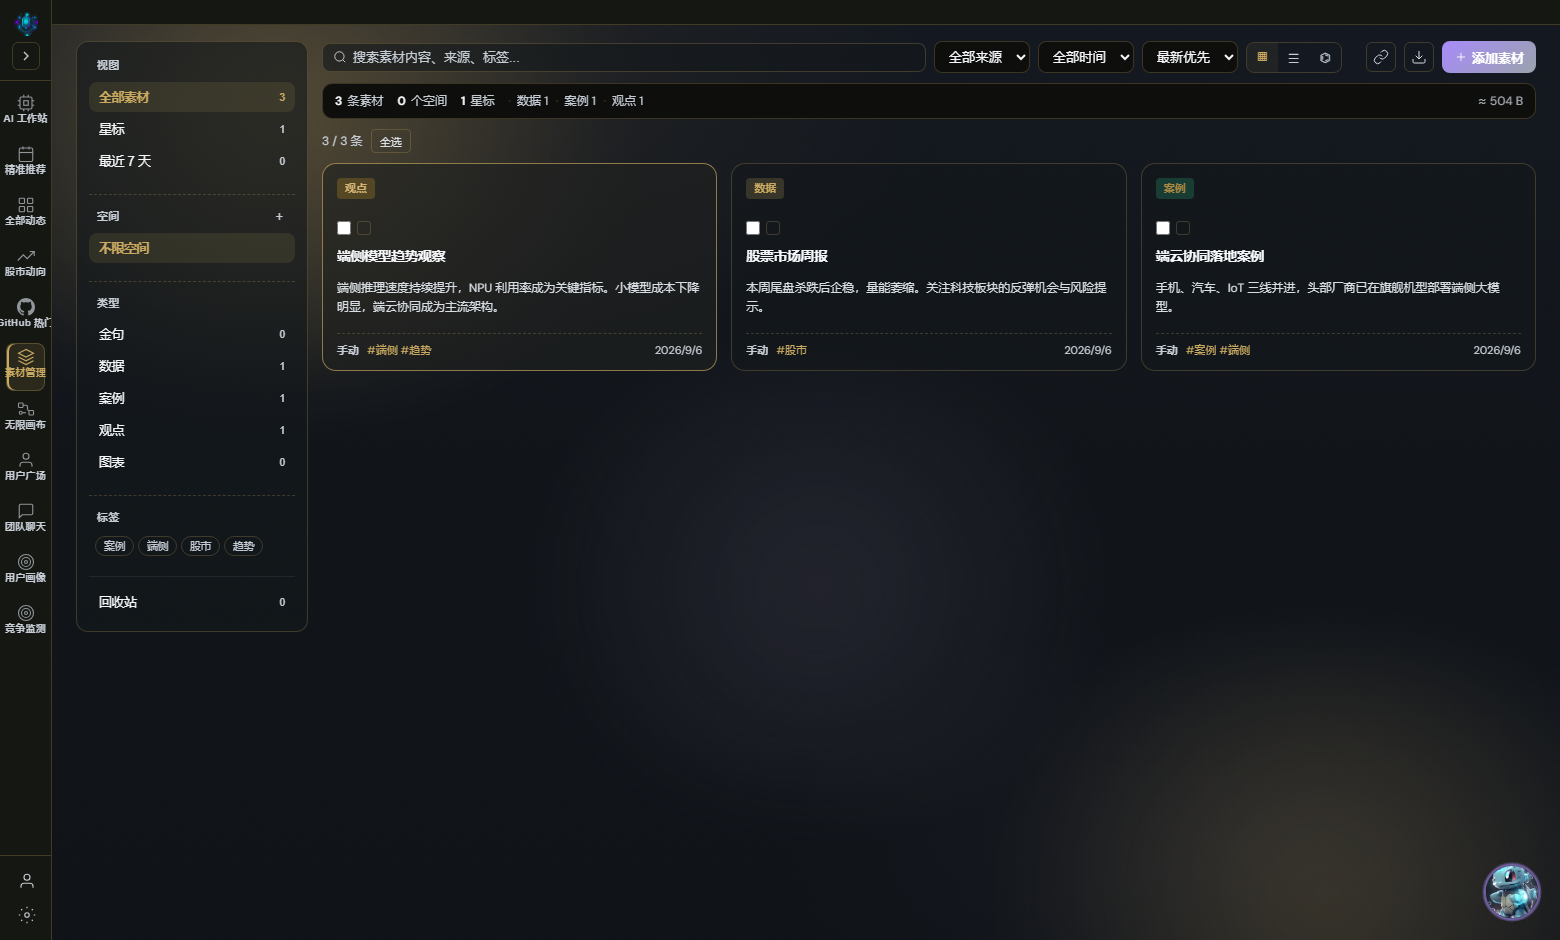
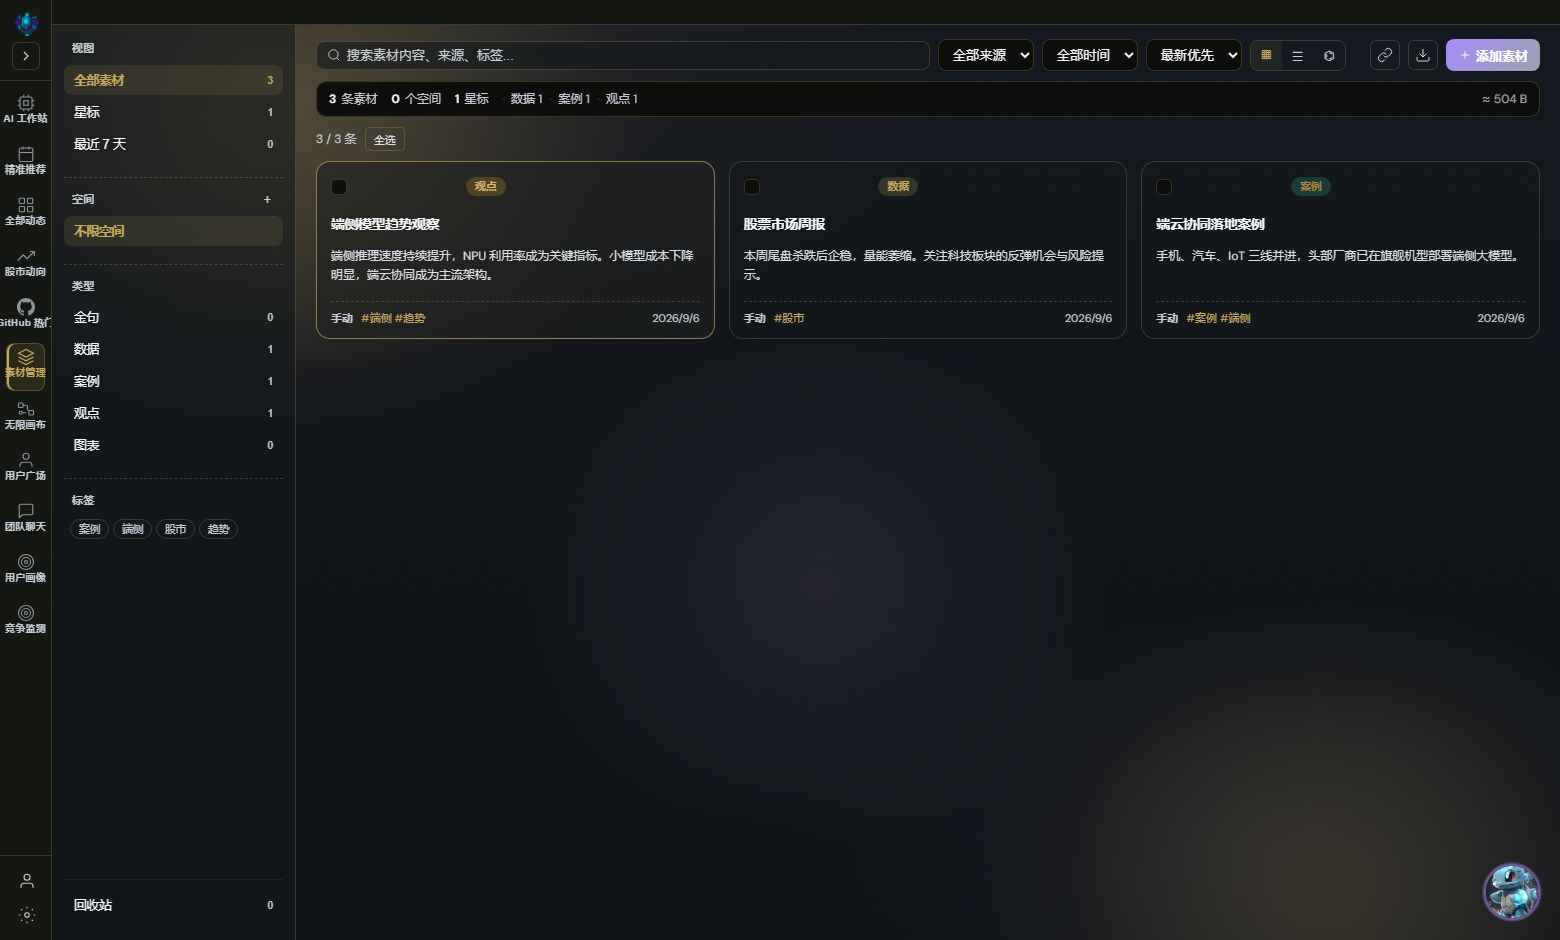
style(materials): 左栏贴边全高去留白 — 素材视图接管 feed 布局（padding 0 + overflow hidden），侧栏改为与工作站侧栏同款的贴边全高面板（右边框分隔、内部自滚动、回收站沉底），主列独立滚动

diff --git a/src/styles.css b/src/styles.css
@@ -28589,3 +28589,35 @@ body {
 }
 .repo-drawer { display: flex; flex-direction: column; }
 .repo-drawer-body { flex: 1; }
+
+/* ===== v18 素材管理：左栏贴边全高（去留白） ===== */
+/* 素材视图接管 feed 布局：不再用悬浮卡片，而是与工作站侧栏同款的贴边全高面板 */
+.feed:has(.repo-page) {
+  padding: 0;
+  overflow: hidden;
+  display: flex;
+}
+.repo-page {
+  flex: 1;
+  height: 100%;
+  min-height: 0;
+  grid-template-columns: 244px minmax(0, 1fr);
+  gap: 0;
+  padding: 0;
+}
+.repo-rail {
+  height: 100%;
+  max-height: none;
+  border: none;
+  border-right: 1px solid var(--border-color);
+  border-radius: 0;
+  padding: 14px 12px 20px;
+  gap: 18px;
+  background: var(--surface-card, var(--bg-card));
+}
+.repo-main {
+  height: 100%;
+  padding: 14px 20px 24px;
+  overflow-y: auto;
+}
+/* 顶栏工具行贴齐：搜索/筛选行随 main 滚动保持现状 */
